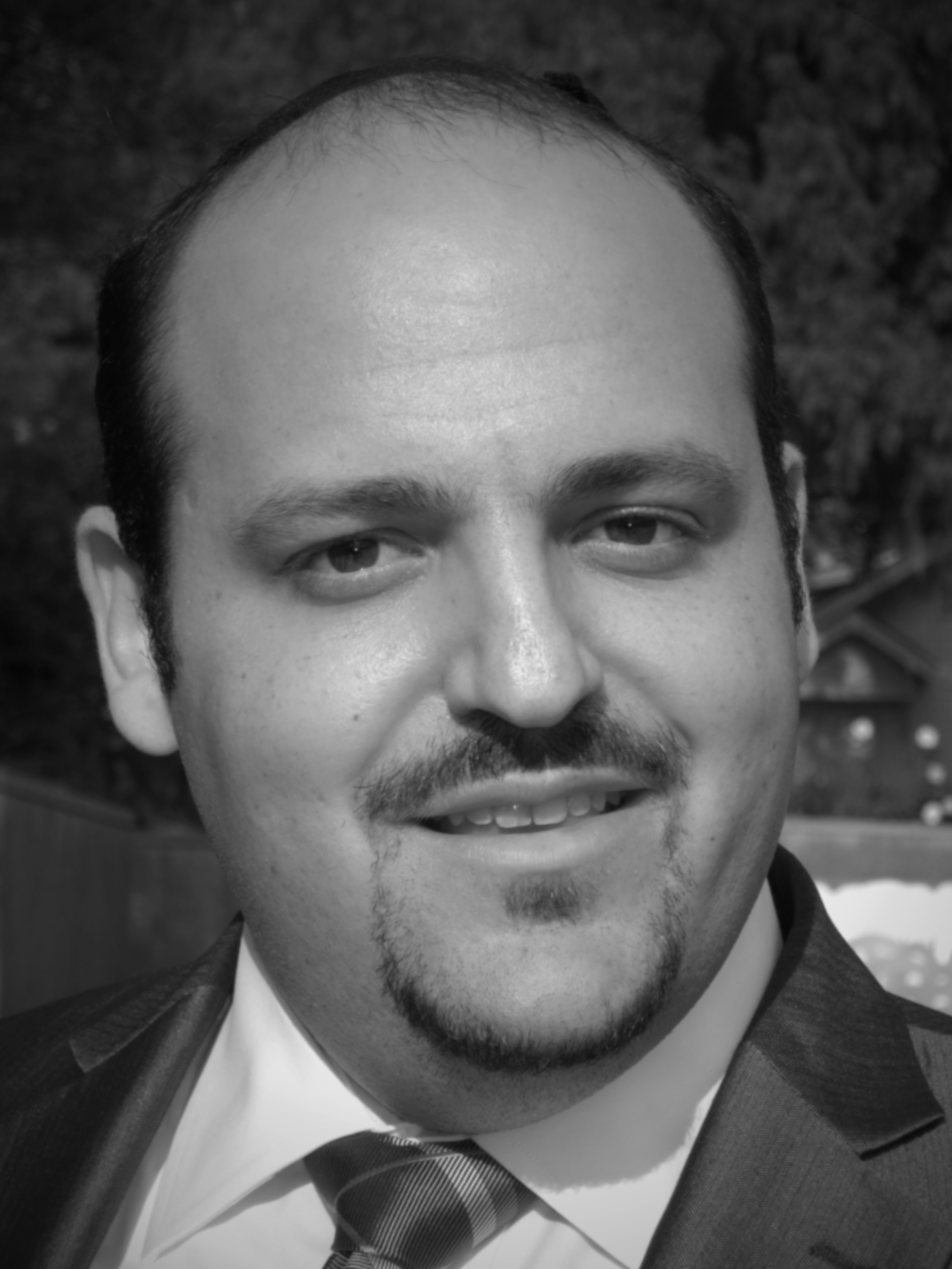
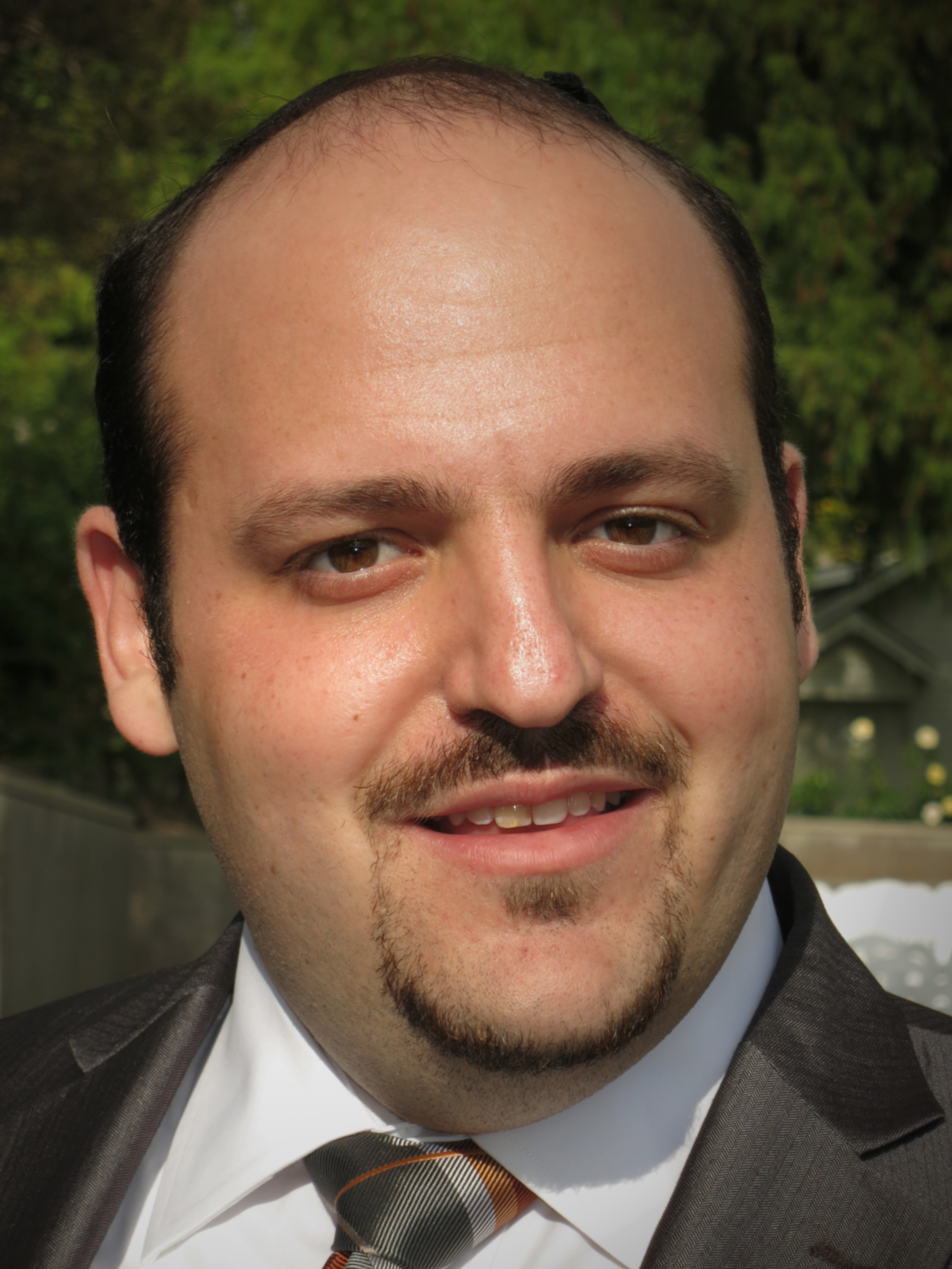
Changed to color picture

diff --git a/index.html b/index.html
@@ -53,10 +53,10 @@
           <h3>Relevant Work Experience</h3>
           <p class="indent">
             <strong>National Oceanic and Atmospheric Association:</strong>
-            As a government contractor at the Southeast Fisheries Science Center
+            As a government contractor at the Southeast Fisheries Science Center,
             I managed a database of Reef Visual Census data, developed a
             <a href="https://github.com/jeremiaheb/rvcstats_rails">
-            Ruby  on Rails</a> application to access the data and a
+            Ruby  on Rails</a> application to access the data, and a
             <a href="https://github.com/jeremiaheb/rvcstats">package in R</a> to
             analyze the data.
           </p>
